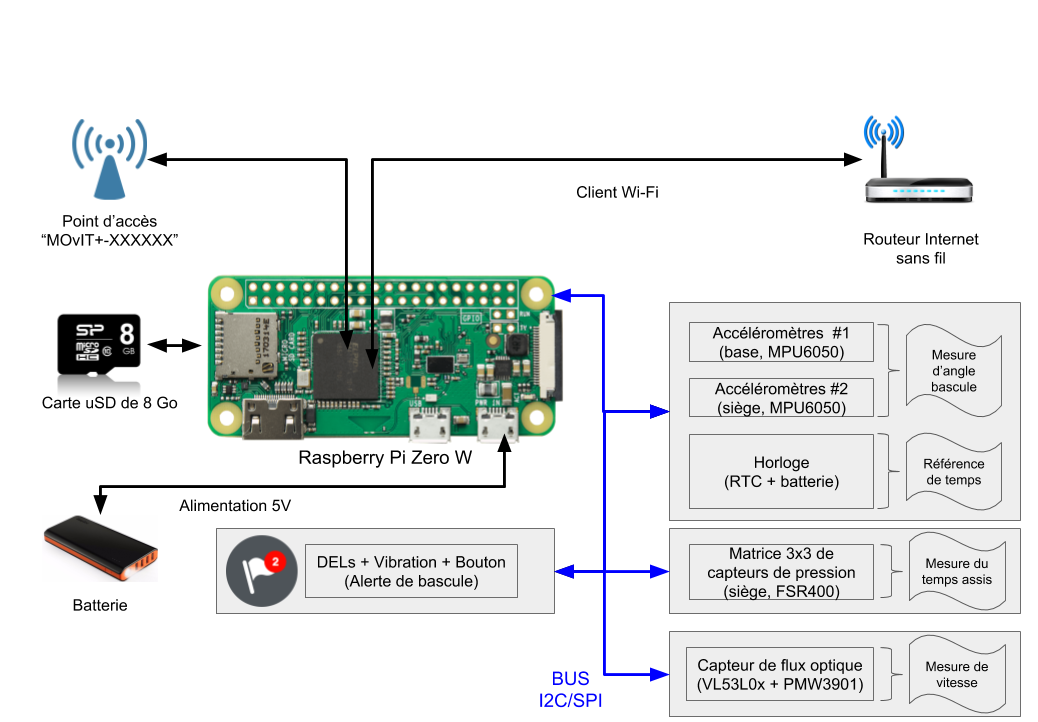
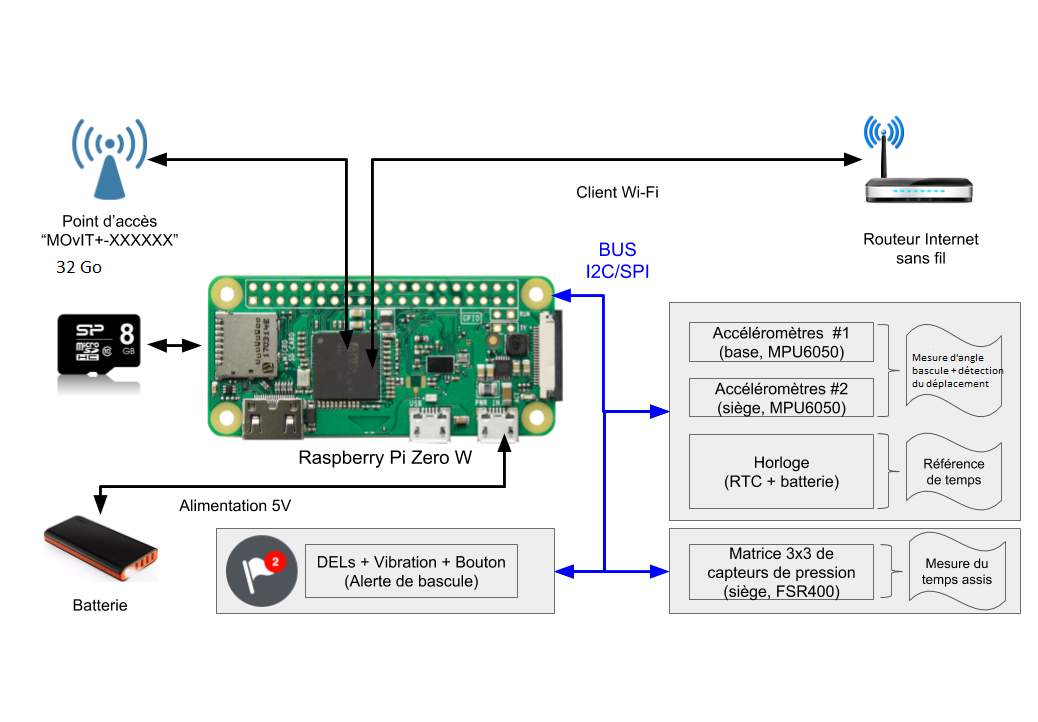
created new branch + started to modify the user guide

diff --git a/docs/FR/GuideInstallation/GuideInstallation.md b/docs/FR/GuideInstallation/GuideInstallation.md
@@ -57,11 +57,11 @@ La Figure 6 montre le module capteur de déplacement par flux optique. **Nous ne
 
 ### **Câbles de branchement des modules (RJ-12 et RJ-45)**
 
-|![RJ12.JPG](images/RJ12.JPG)|![RJ45.JPG](images/RJ45.JPG)|
-|:----------:|:----------:|
-|**Figure 7 : Câble RJ-12*|*Figure 8 : Câble RJ-45**|
+|![RJ12.JPG](images/RJ12.JPG)|
+|:----------:|
+|**Figure 7 : Câble RJ-12*|
 
-La Figure 7 présente les câbles RJ-12 de différentes longueurs nécessaires à connecter les modules à l'unité centrale. Pendant l'installation, choississez les câbles les plus courts possibles parmis ceux fournis. Les câbles peuvent être interchangés au besoin. Il est possible de reconnaître le câble RJ-45, montré à la Figure 8, puisqu'il comprend 8 contacts au lieu de 6 pour le RJ-12. La longueur maximale du câble doit être de 30 cm (1 pied). Ce câble sert à relier le module de déplacement par flux optique.
+La Figure 7 présente les câbles RJ-12 de différentes longueurs nécessaires à connecter les modules à l'unité centrale. Pendant l'installation, choississez les câbles les plus courts possibles parmis ceux fournis. Les câbles peuvent être interchangés au besoin. Les cables RJ-12 comprennent 6 contacts.
 
 ### **Batterie et câble USB**
 
